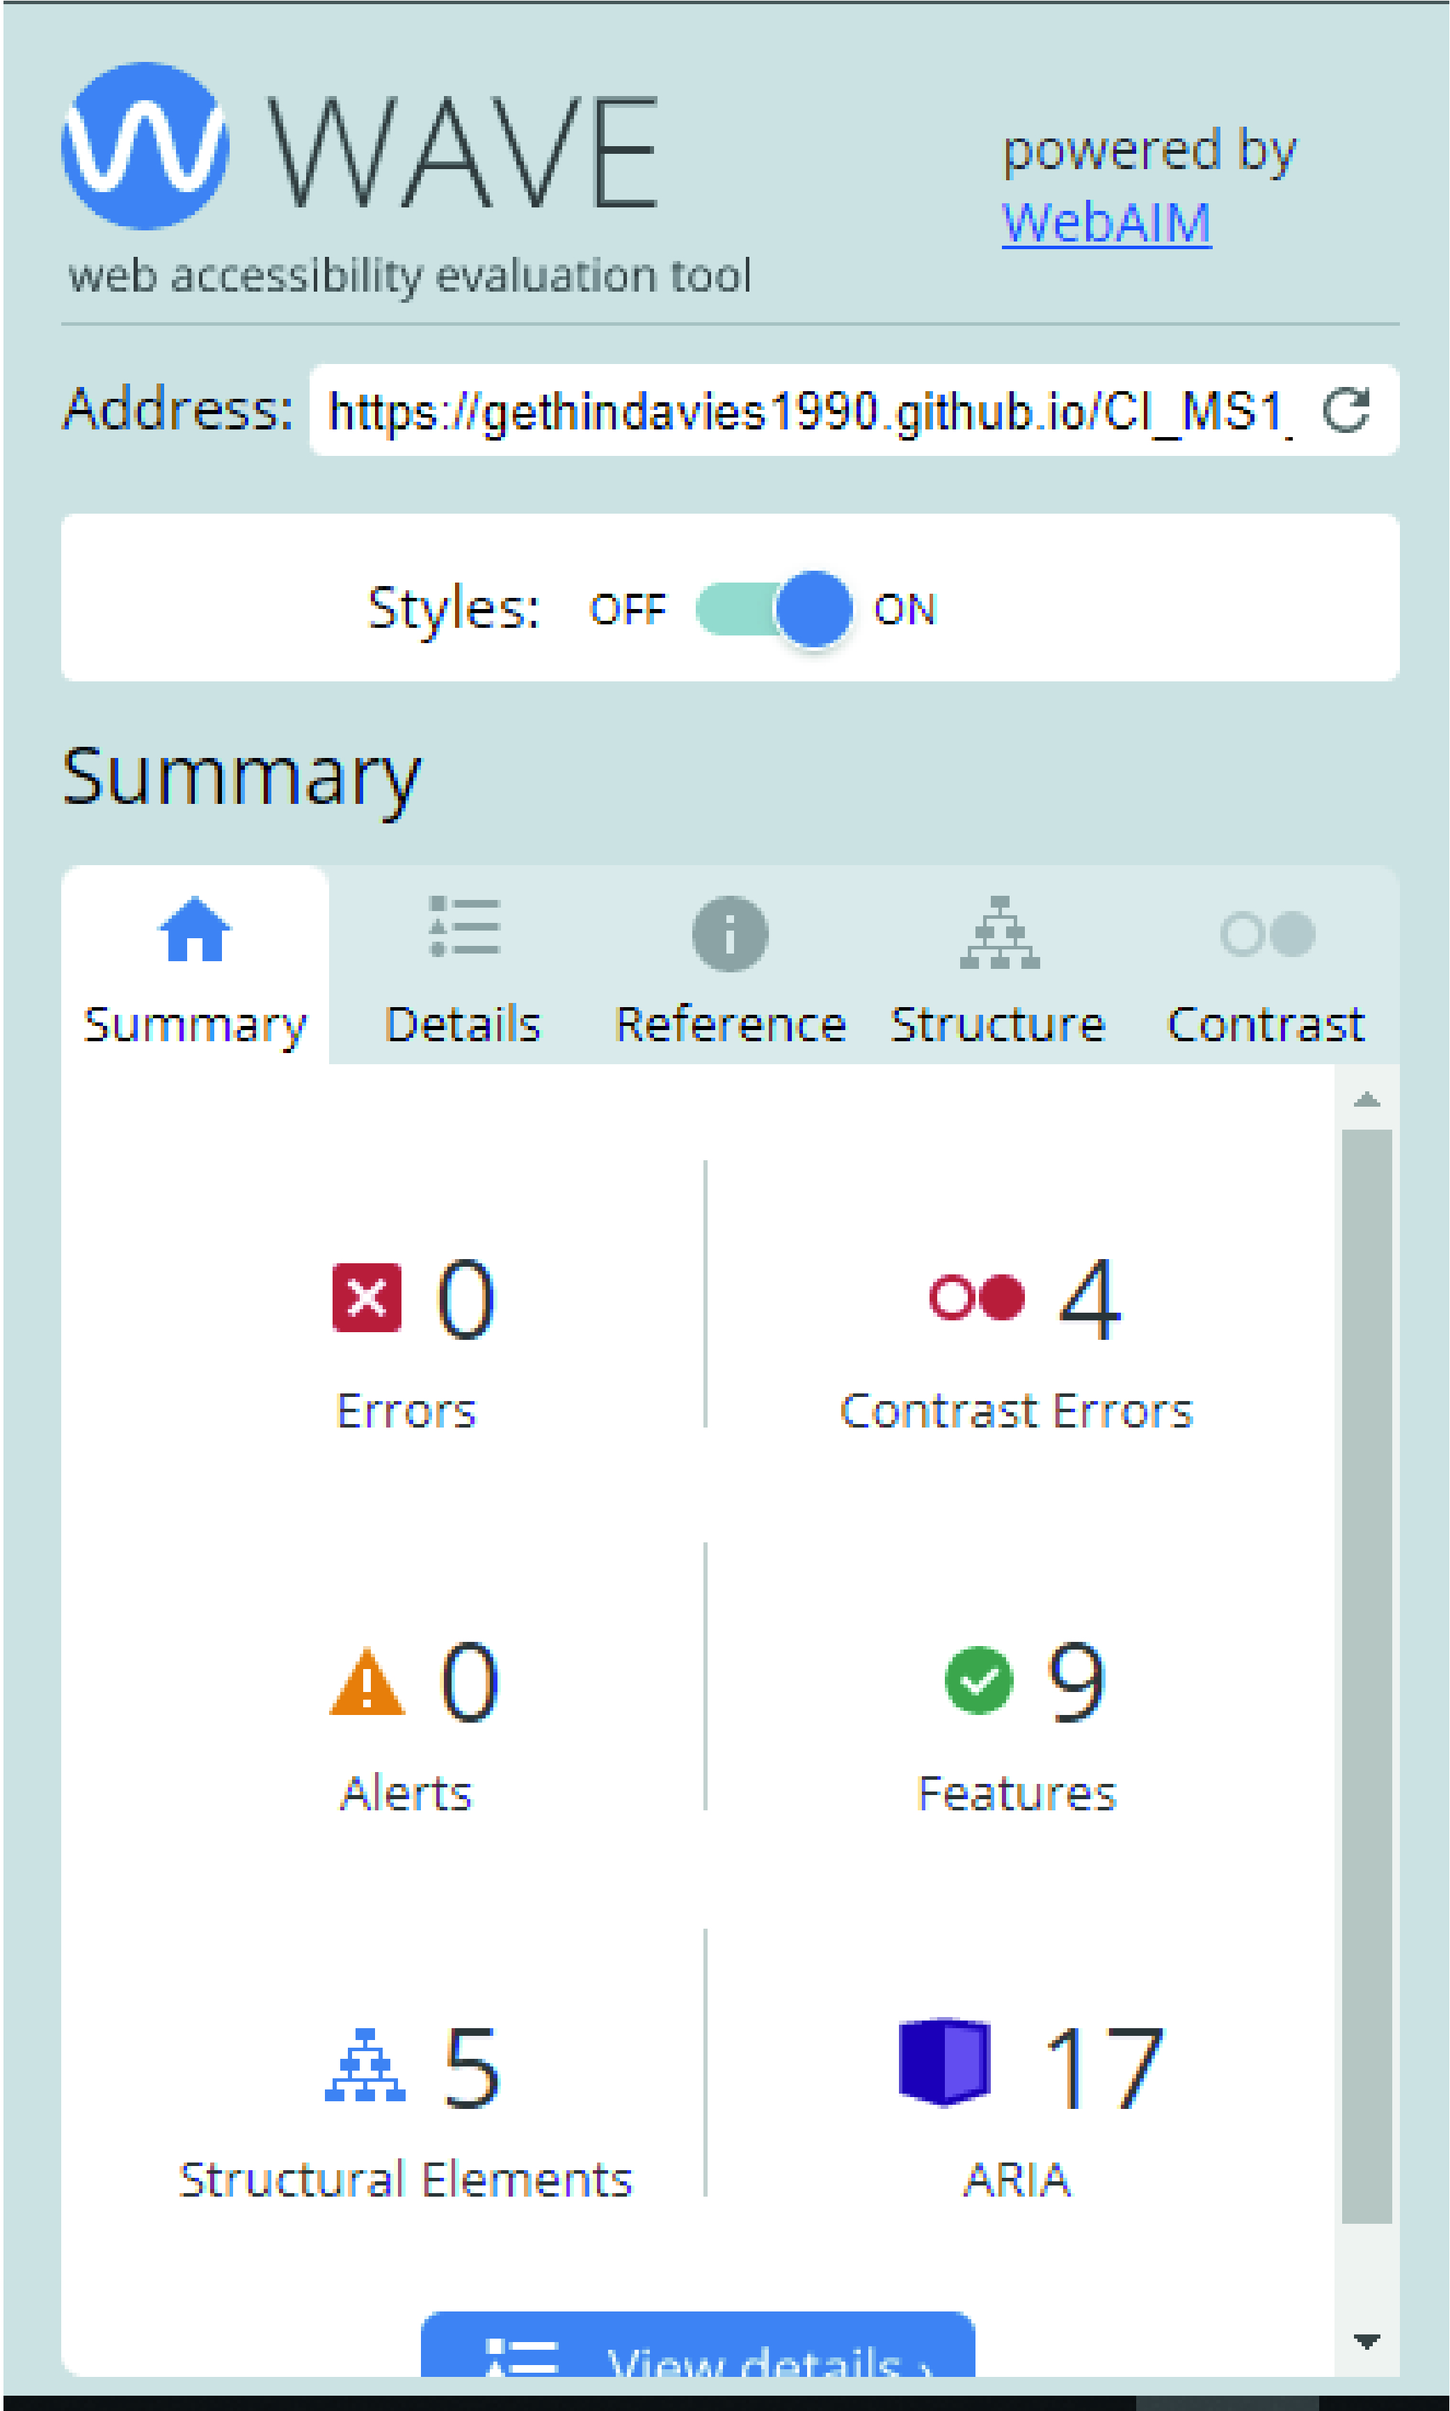
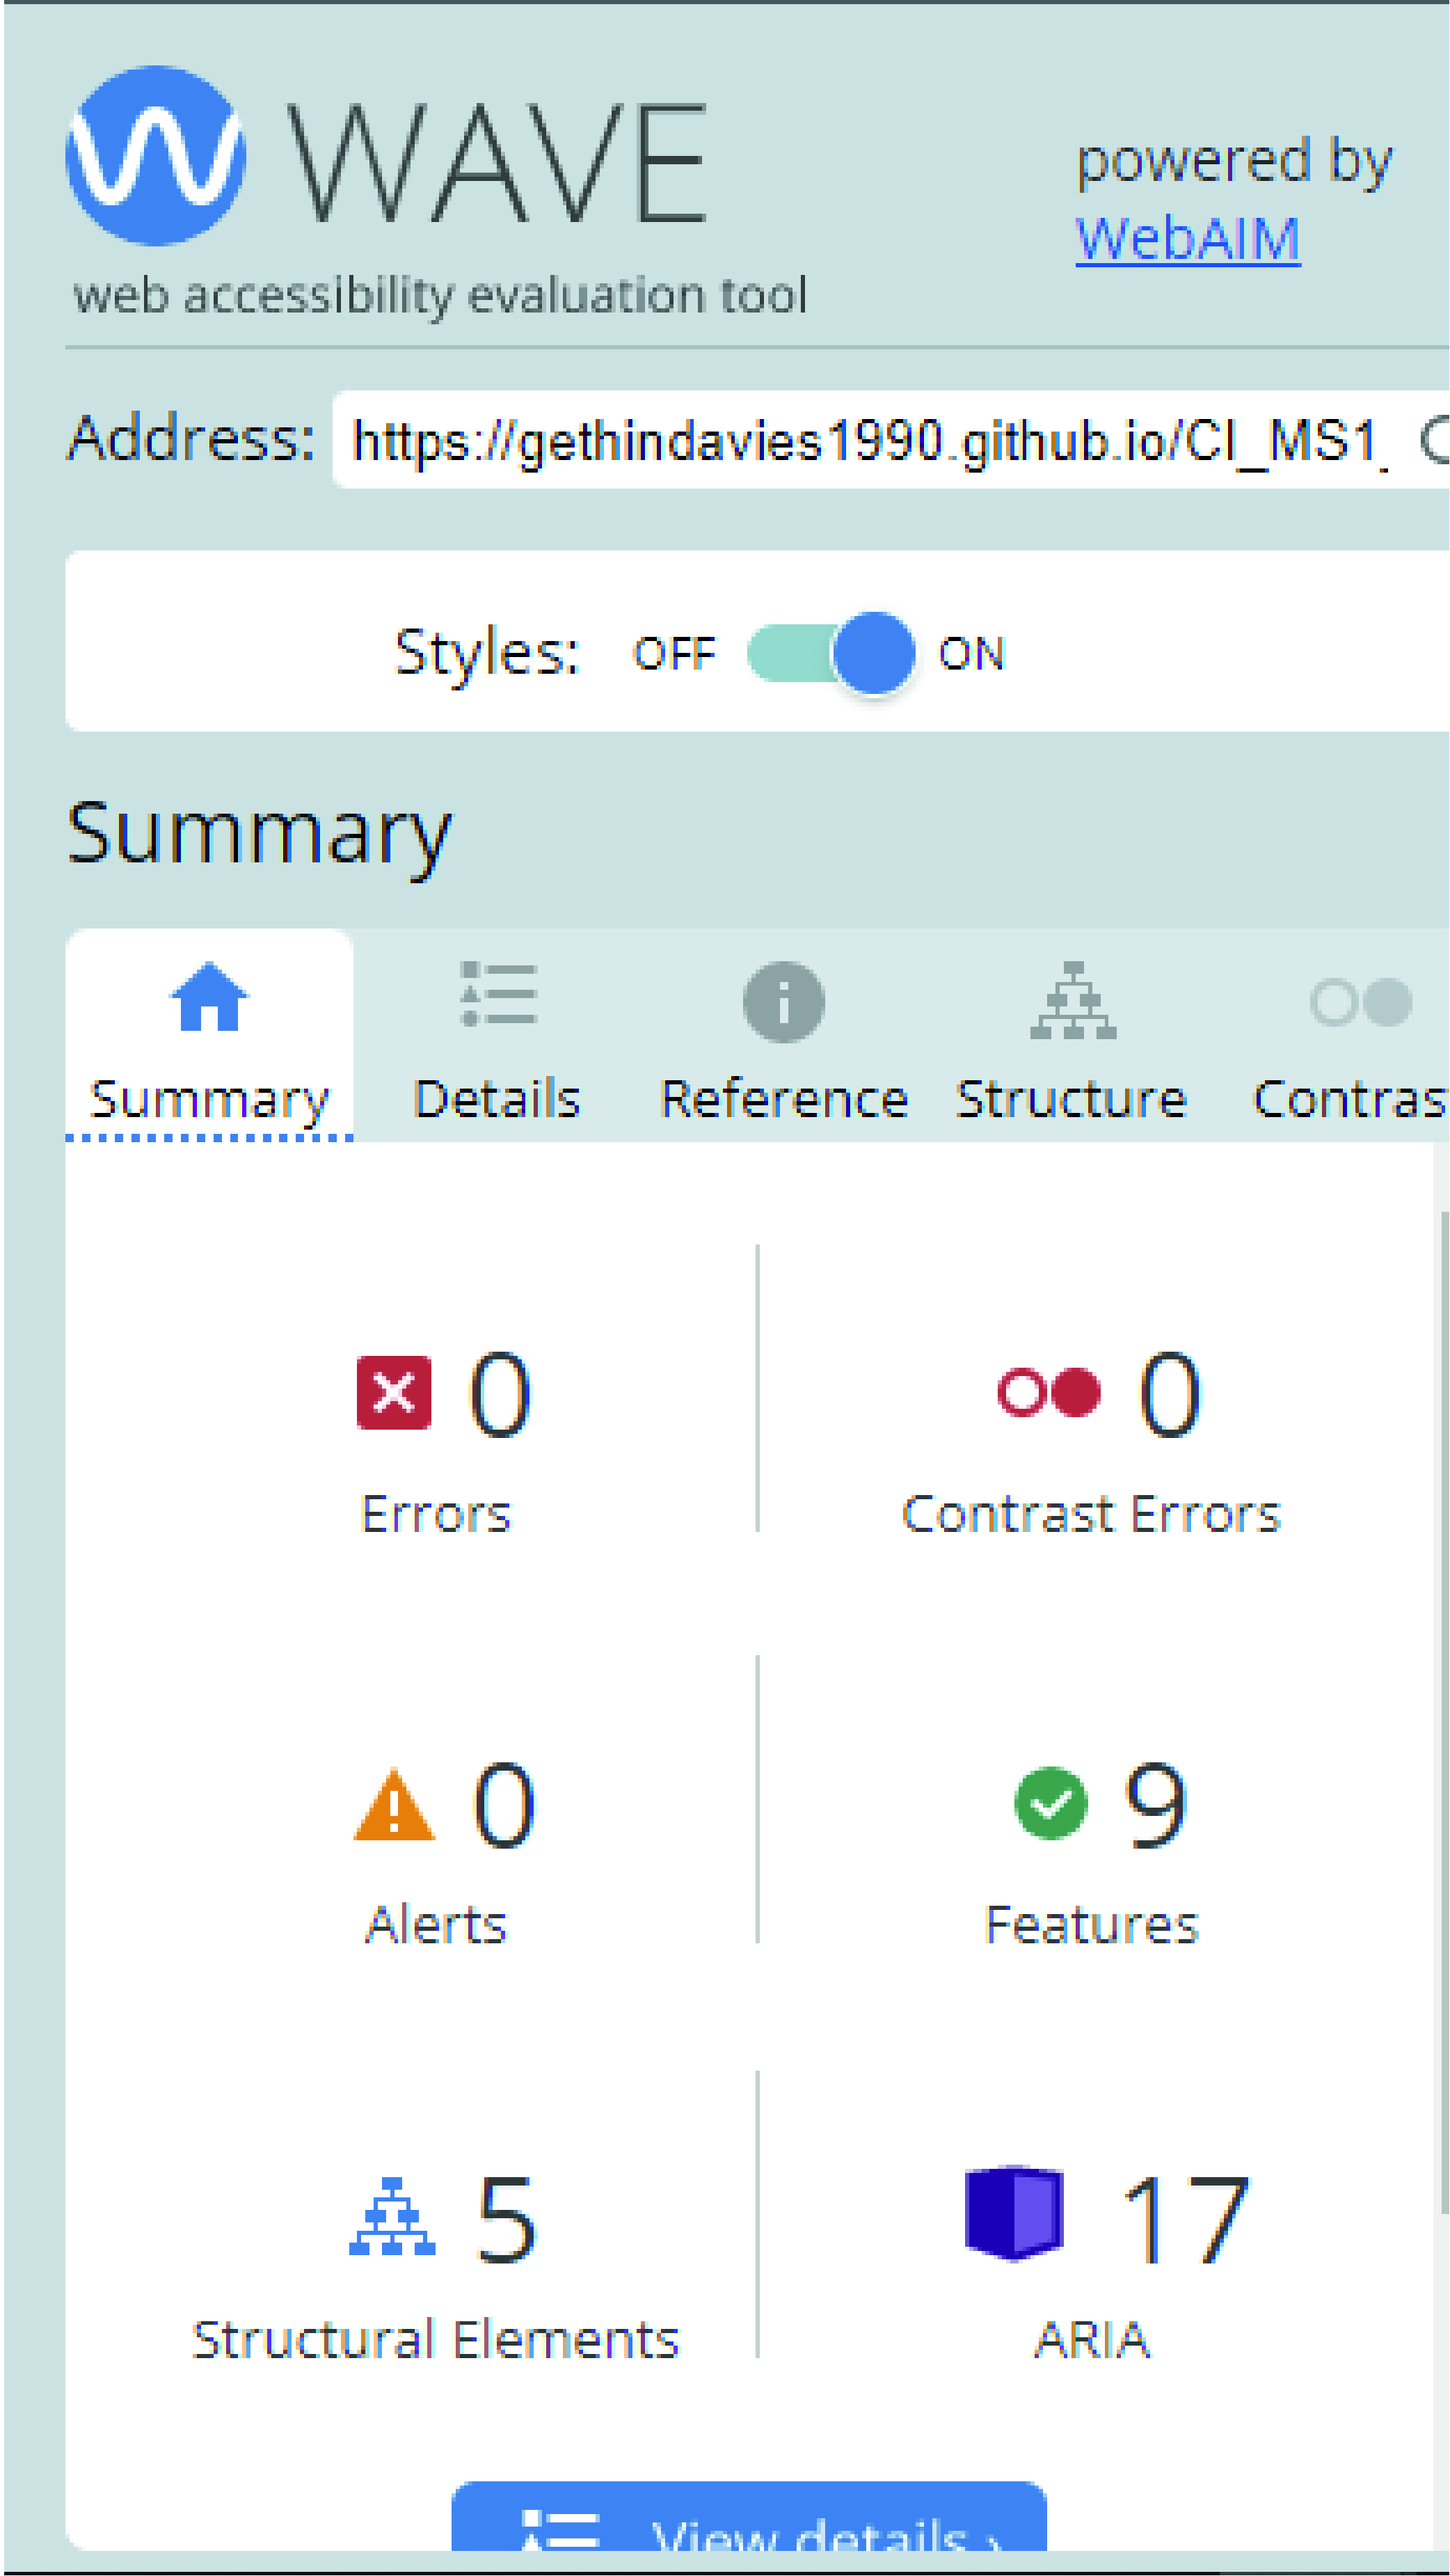
404 fix color

diff --git a/404.html b/404.html
@@ -56,7 +56,7 @@
             <div class="row">
                 <div class="col-12">
                     <h1 class="primary-heading">ERROR 404</h1>
-                    <h2 class="primary-heading">Uh Oh, Looks like this page cannot be found! Want to go back to the
+                    <h2 class="primary-heading error-text">Uh Oh, Looks like this page cannot be found! Want to go back to the
                         beers?
                         <i class="fa-solid fa-beer-mug-empty"></i></h2>
                 </div>

diff --git a/assets/css/style.css b/assets/css/style.css
@@ -460,8 +460,8 @@ footer h5 {
   color: #212121;
 }
 
-.sr-only {
-  color: #f2b613;
+.error-text {
+  color: #212121;
 }
 /* Media Queries */
 
